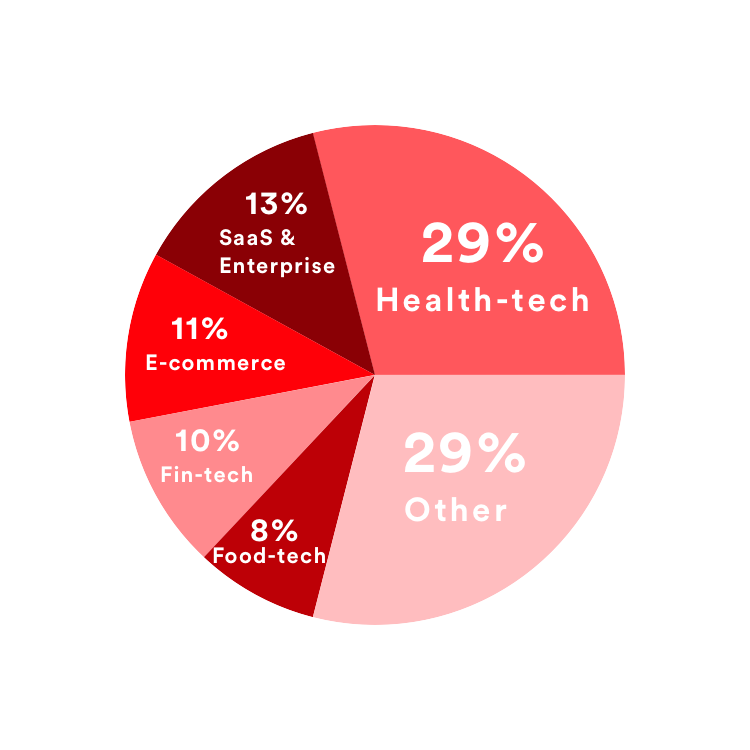
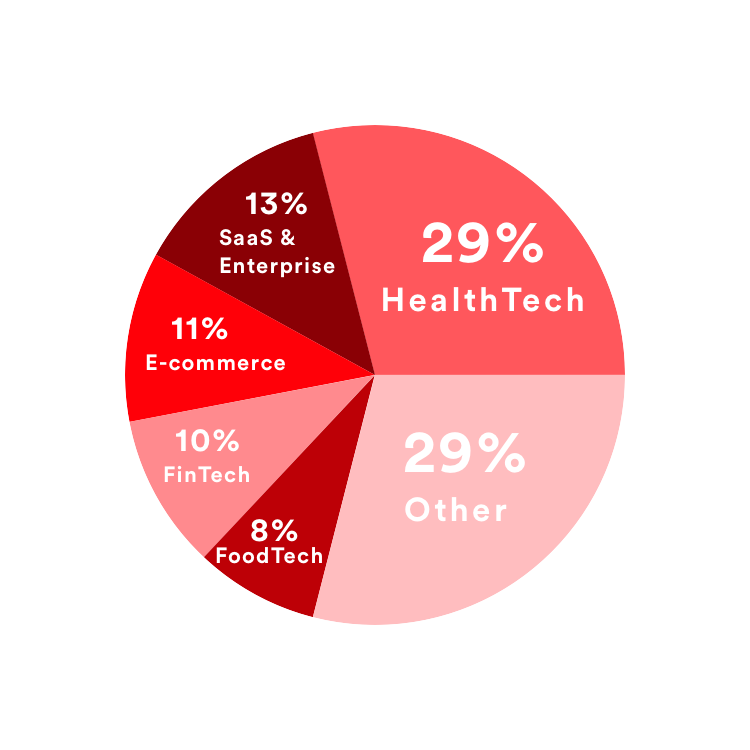
graphics and copy updates

Changed region(s): [[0.4907, 0.368, 0.7973, 0.4293], [0.276, 0.736, 0.4293, 0.7667], [0.2147, 0.6133, 0.3373, 0.644]]

diff --git a/index.html b/index.html
@@ -2,7 +2,7 @@
 <html lang="en">
 <head>
 	<meta charset="UTF-8">
-	<title>Dorm Room Fund 5&#150;Year Report</title>
+	<title>Dorm Room Fund 5&#45;Year Report</title>
 	<link rel="icon" href="Media/DRFMedia/DRFIcon.png">
 	<link rel="stylesheet" href="css/normalize.css">
 	<link rel="stylesheet" href="css/decorate.css">
@@ -47,7 +47,7 @@
 	</div>
 	<div id='title-screen'>
 		<h1 class="HeaderText">Dorm Room Fund</h1>
-		<p class="SubsubheaderText">5&#150;Year Report</p>
+		<p class="SubsubheaderText">5&#45;Year Report</p>
 	</div>
 	<div id='title-background'></div>
 	<div id="arrowdiv">
@@ -61,7 +61,7 @@
 				<img src="Media/Quotes/JoshKopelman.png" alt="Josh Kopelman"/>
 			</div>
 			<div class="quotetext">
-				<p class="BylineText italic"><span class="SubsubheaderText blue quotequote">&#34;</span>Student founders have shaped industries and transformed the world &#150; changing the way we <a href="https://www.facebook.com" id="FB" class="blue" target="_blank">communicate</a>&#44; the way we <a href="http://www.fedex.com" id="FedEx" class="blue" target="_blank">shop</a>&#44; the way <a href="https://www.google.com" id="Google" class="blue" target="_blank">knowledge is shared</a>&#44; and the way we <a href="https://www.microsoft.com/en-us/" id="Microsoft" class="blue" target="_blank">work</a>&#46; Yet the venture industry has largely ignored students when they&#39;re in school &#150; choosing to wait until students graduate before funding companies&#46; Massively impactful companies are being created right now in dorm rooms throughout the nation &#150; and Dorm Room Fund is providing this impressive collection of student founders with access to critical capital and mentorship when it matters the most&#46;<span class="blue">&#34;</span></p>
+				<p class="BylineText italic"><span class="SubsubheaderText blue quotequote">&#34;</span>Student founders have shaped industries and transformed the world&#151;changing the way we <a href="https://www.facebook.com" id="FB" class="blue" target="_blank">communicate</a>&#44; the way we <a href="http://www.fedex.com" id="FedEx" class="blue" target="_blank">shop</a>&#44; the way <a href="https://www.google.com" id="Google" class="blue" target="_blank">knowledge is shared</a>&#44; and the way we <a href="https://www.microsoft.com/en-us/" id="Microsoft" class="blue" target="_blank">work</a>&#46; Yet the venture industry has largely ignored students when they&#39;re in school &#45; choosing to wait until students graduate before funding companies&#46; Massively impactful companies are being created right now in dorm rooms throughout the nation&#151;and Dorm Room Fund is providing this impressive collection of student founders with access to critical capital and mentorship when it matters the most&#46;<span class="blue">&#34;</span></p>
 				<div class="quotetitle">
 					<p class="BylineText Black">Josh Kopelman</p>
 					<p class="BylineText Black">Founder of First Round Capital</p>
@@ -74,15 +74,15 @@
 	<div id="introtext">
 		<p class="Bodycopy">Facebook&#44; Microsoft&#44; Snapchat&#44; Yahoo&#44; and Google all started in a dorm room&#46;</p>
 
-		<p class="Bodycopy">Five years ago&#44; Josh Kopelman wrote a <a href="http://redeye.firstround.com/2012/09/the-dorm-room-fund.html" target="_blank" class="blue">blog post</a> reflecting on that thought and discussed the state of student entrepreneurship&#46; With those reflections&#44; he announced an experiment called &#34;The Dorm Room Fund&#46;&#34;</p>
+		<p class="Bodycopy">Five years ago&#44; Josh Kopelman wrote a <a href="http://redeye.firstround.com/2012/09/the-dorm-room-fund.html" target="_blank" class="blue">blog post</a> that discussed the state of student entrepreneurship&#46; Along with those reflections&#44; he announced an experiment called &#34;The Dorm Room Fund&#46;&#34;</p>
 		 
-		<p class="Bodycopy">What started off as a pilot in Philadelphia is now a national venture firm that has funded over 150 startups&#44; graduated over 100 investors and operators&#44; and launched a global student entrepreneurship movement that has inspired student&#150;focused funds across the world &#150; from Israel to New Zealand&#46;</p> 
+		<p class="Bodycopy">What started off as a pilot in Philadelphia is now a national venture firm that has funded over 150 startups&#44; graduated over 100 investors and operators&#44; and launched a global student entrepreneurship movement that has inspired student&#45;focused funds across the world &#151; from Israel to New Zealand&#46;</p> 
 
 		<p class="Bodycopy">During the last 5 years&#44; we&#39;ve had the opportunity to work with entrepreneurial students all across the country&#46; As a result&#44; we&#39;ve developed a unique vantage point&#44; perspective and knowledge on what students are capable of creating&#46; To celebrate our 5th birthday&#44; we wanted to share these findings with the community at large&#46;</p> 
 
 		<p class="Bodycopy">We compiled our findings into 4 categories&#58;</p>
 
-		<p class="Bodycopy"><span class="underline"><a href="#Portfolio-Highlights" class="yellow">Portfolio Highlights</a></span> &#151; How have DRF&#150;backed companies performed over the last 5 years&#44; and what impact have student&#150;founded startups had&#63;</p>
+		<p class="Bodycopy"><span class="underline"><a href="#Portfolio-Highlights" class="yellow">Portfolio Highlights</a></span> &#151; How have DRF&#45;backed companies performed over the last 5 years&#44; and what impact have student&#45;founded startups had&#63;</p>
 
 		<p class="Bodycopy"><span class="underline"><a href="#Investment-Locations" class="green">Investment Locations</a></span> &#151; What are the most entrepreneurial universities&#63; Does Silicon Valley remain on top in terms of student startup activity&#63;</p>
 
@@ -106,7 +106,7 @@
 	<div class="content-page aligndivs">
 		<div class="bodytext tocenter aligntop">
 			<h2 class="SubheaderText"><span class="yellow HeaderText">151</span> Investments</h2>
-			<p class="Bodycopy">Between our very first investment in Firefly &#40;acquired 2014&#41; and our latest investment earlier this week&#44; we&#39;ve written over 150 checks&#46;</p> 
+			<p class="Bodycopy">Between our very first investment in Firefly &#40;acquired in 2014&#41; and our latest investment earlier this week&#44; we&#39;ve written over 150 checks&#46;</p> 
 
 			<p class="Bodycopy">Over the last 5 years&#44; we’ve been funding the strongest community of student entrepreneurs&#44; consisting of founders across Undergraduate&#44; MBA&#44; Master&#39;s&#44; and PhD programs around the country&#46;</p>
 		</div>
@@ -116,8 +116,8 @@
 	</div>
 	<div class="grayback content-page">
 		<h2 class="SubheaderText"><span class="yellow HeaderText">&#36;300M&#43;</span> in Follow&#8211;On Capital</h2>
-		<p class="Bodycopy">Our portfolio companies have gone on to raise over &#36;300M in funding from investors like Sequoia Capital&#44; Andreessen Horowitz&#44; Y&#150;Combinator&#44; and more&#46;</p>
-		<p class="Bodycopy">We’re starting to see traditional VC&#39;s invest with more confidence and frequency in student&#150;founded startups than ever before&#46;</p>
+		<p class="Bodycopy">Our portfolio companies have gone on to raise over &#36;300M in funding from investors like Sequoia Capital&#44; Andreessen Horowitz&#44; Y&#45;Combinator&#44; and more&#46;</p>
+		<p class="Bodycopy">We’re starting to see traditional VC&#39;s invest with more confidence and frequency in student&#45;founded startups than ever before&#46;</p>
 		<div class="MultiGraphic">
 			<div class="row1">
 				<img src="Media/VCLogos/Bessemer.png" alt="Bessemer"/>
@@ -169,9 +169,9 @@
 	</div>
 	<div class="grayback content-page">
 		<div class="bodytext whole-width">
-			<h2 class="SubheaderText"><span class="yellow HeaderText">11</span> Startups in Y&#150;Combinator in 2017</h2>
-			<p class="Bodycopy">Every year&#44; we’re seeing stronger student representation across top accelerators and fellowships&#46; Given that accelerators aim to accomplish a similar mission as Dorm Room Fund &#151; bridge the gap between your idea and your seed round &#151; it&#39;s no surprise that student founders are taking accelerators by storm&#46;</p>
-			<p class="Bodycopy">In Y&#150;Combinator’s most recent batch&#44; Dorm Room Fund&#39;s 8 startups represented the largest sub&#150;community within YC&#46;</p>
+			<h2 class="SubheaderText"><span class="yellow HeaderText">11</span> Startups in Y&#45;Combinator in 2017</h2>
+			<p class="Bodycopy">Every year&#44; we’re seeing stronger student representation across top accelerators and fellowships&#46; Given that accelerators aim to accomplish a similar mission as Dorm Room Fund&#151;bridge the gap between your idea and your seed round&#151;it&#39;s no surprise that student founders are taking accelerators by storm&#46;</p>
+			<p class="Bodycopy">In Y&#45;Combinator’s most recent batch&#44; Dorm Room Fund&#39;s 8 startups represented the largest sub&#45;community within YC&#46;</p>
 		</div>
 		<div class="MultiGraphic" id="YCLogos">
 			<div class="row1">
@@ -278,7 +278,7 @@
 	<div class="grayback content-page aligndivs">
 		<div class="bodytext tocenter aligntop">
 			<h2 class="SubheaderText"><span class="green HeaderText">43&#37;</span> of Our Investments Went to Undergraduate Founders</h2>
-			<p class="Bodycopy">Young&#44; hungry&#44; and unafraid of failing&#44; undergraduate students seem to be more entrepreneurial than the rest of the university ecosystem&#46; Representing just over 43&#37; of our investments&#44; the group leads the pack in our portfolio amongst MBA&#44; PhD&#44; and Master&#39;s students&#46; MBA candidates are a close second and catching up quickly&#44; representing just over 39&#37; of our investments&#46;</p>
+			<p class="Bodycopy">Young&#44; hungry&#44; and unafraid of failing&#44; undergraduate students seem to be more entrepreneurial than the rest of the university ecosystem&#46; Representing just over 43&#37; of our investments&#44; the group leads the pack in our portfolio amongst MBA&#44; PhD&#44; and Master&#39;s students&#46; MBA candidates are a close second and are catching up quickly&#44; representing just over 39&#37; of our investments&#46;</p>
 		</div>
 		<div class="SingleGraphic">
 			<img src="Media/Graphics/InvestmentGradeBreakdown.png" alt="Investment Grade Breakdown"/>
@@ -287,7 +287,7 @@
 	<div class="content-page">
 		<div class="bodytext whole-width">
 			<h2 class="SubheaderText"><span class="green HeaderText">Boston</span> is the Hub of the Nation&#39;s Student Entrepreneurship Ecosystem</h2>
-			<p class="Bodycopy">With 31&#37; of our investments coming from the Boston region&#44; we’ve seen Boston trump Silicon Valley in the world of student entrepreneurship&#46; With the cutting&#150;edge research at MIT&#44; the 200&#43; active startups at Northeastern&#44; and the entrepreneurial spirit of Harvard Business School students&#44; it&#39;s no shock that Boston takes the lead here&#46;</p>
+			<p class="Bodycopy">With 31&#37; of our investments coming from the Boston region&#44; we’ve seen Boston trump Silicon Valley in the world of student entrepreneurship&#46; With the cutting&#45;edge research at MIT&#44; the 200&#43; active startups at Northeastern&#44; and the entrepreneurial spirit of Harvard Business School students&#44; it&#39;s no shock that Boston takes the lead here&#46;</p>
 			<p class="Bodycopy">In 2018&#44; we&#39;re looking to launch in a new city&#46; Think your student startup ecosystem is a great fit for Dorm Room Fund&#63; <a href="https://dormroomfund.typeform.com/to/e3FYHB" target="_blank" class="blue">Let us know here</a>&#46;</p>
 		</div>
 		<div class="SingleGraphic centered">
@@ -297,8 +297,8 @@
 	<div class="grayback content-page aligndivs">
 		<div class="bodytext tocenter aligntop">
 			<h2 class="SubheaderText"><span class="green HeaderText">MIT vs&#46; Penn:</span> Technology Disruptions vs&#46; Industry Disruptions</h2>
-			<p class="Bodycopy">With Penn&#42; and MIT taking the lead in our portfolio&#44; it&#39;s interesting to see the contrast between founders at both schools&#46; With the research&#150;focus of MIT and the Wharton community at Penn&#44; we&#39;ve noticed the difference in the problems being solved at both schools&#46;</p> 
-			<p class="Bodycopy">With more technically&#150;challenging products being built at MIT &#40;many Hardware &#38; AI investments&#41;&#44; and more of an industry&#150;disruption focus at Penn &#40;many Healthcare&#44; e&#150;commerce&#44; and Enterprise investments&#41;&#44; each school has flourished with its own unique strengths&#46;</p>
+			<p class="Bodycopy">With Penn&#42; and MIT taking the lead in our portfolio&#44; it&#39;s interesting to see the contrast between founders at both schools&#46; With the research focus of MIT and the Wharton community at Penn&#44; we&#39;ve noticed the difference in the problems being solved at both schools&#46;</p> 
+			<p class="Bodycopy">With more technically&#45;challenging products being built at MIT &#40;many hardware &#38; AI investments&#41; and more of an industry&#45;disruption focus at Penn &#40;many healthcare&#44; e&#45;commerce&#44; and enterprise investments&#41;&#44; each school has flourished with its own unique strengths&#46;</p>
 			<p class="BylineText italic">&#42;While Penn is our most funded school&#44; it was also the first school we began actively investing in&#46;</p>
 		</div>
 		<div class="SingleGraphic">
@@ -319,7 +319,7 @@
 	<div class="content-page aligndivs">
 		<div class="bodytext tocenter aligntop">
 			<h2 class="SubheaderText"><span class="red HeaderText">Healthcare Needs Work&#44;</span> According to Today&#39;s Young Founders</h2>
-			<p class="Bodycopy">With 21 investments in healthcare &#38; wellness startups&#44; students around the country are looking to improve the lives of future generations&#46; Building off of that notion&#44; we&#39;ve found that food&#150;tech and clean&#150;tech make up 10&#37; of our investments as well&#46;</p>
+			<p class="Bodycopy">With 21 investments in healthcare &#38; wellness startups&#44; students around the country are looking to improve the lives of future generations&#46; Building off of that notion&#44; we&#39;ve found that FoodTech and CleanTech make up 10&#37; of our investments as well&#46;</p>
 			<p class="Bodycopy">From improving transparency and efficiency to employer healthcare offerings &#40;HealthWiz&#41; to bringing professional nutrition advice to all &#40;Healthie&#41;&#44; tomorrow&#39;s entrepreneurs are making selfless bets on our future&#46;</p>
 		</div>
 		<div class="SingleGraphic">
@@ -329,7 +329,7 @@
 	<div class="grayback content-page aligndivs">
 		<div class="bodytext tocenter aligntop">
 			<h2 class="SubheaderText"><span class="red HeaderText">SaaS &#38; Enterprise</span> Trump Health for Undergrad Investments</h2>
-			<p class="Bodycopy">Although health&#150;tech is the leading sector in our portfolio&#44; it&#39;s not the most common industry within our undergraduate investments&#46; SaaS &#38; Enterprise take the lead here&#44; with fin&#150;tech taking the &#35;2 spot&#46;</p>
+			<p class="Bodycopy">Although HealthTech is the leading sector in our portfolio&#44; it&#39;s not the most common industry within our undergraduate investments&#46; SaaS &#38; Enterprise take the lead here&#44; with FinTech taking the &#35;2 spot&#46;</p>
 			<p class="Bodycopy">It&#39;s interesting to see younger founders take the more enterprise and B2B route&#44; whereas MBA&#39;s would typically be associated with these sectors&#46;</p>
 		</div>
 		<div class="SingleGraphic">
@@ -338,8 +338,8 @@
 	</div>
 	<div class="content-page aligndivs">
 		<div class="bodytext tocenter aligntop">
-			<h2 class="SubheaderText"><span class="red HeaderText">Health&#150;tech</span> Remains the Leader Amongst Graduate Investments</h2>
-			<p class="Bodycopy">The bulk of our health&#150;tech investments come from MBA&#150;founded startups&#44; who have built more startups in health and food&#150;tech than e&#150;commerce&#44; fin&#150;tech&#44; and SaaS&#47;enterprise combined&#46;</p>
+			<h2 class="SubheaderText"><span class="red HeaderText">HealthTech</span> Remains the Leader Amongst Graduate Investments</h2>
+			<p class="Bodycopy">The bulk of our HealthTech investments come from MBA&#45;founded startups&#44; who have built more startups in HealthTech and FoodTech than E&#45;commerce&#44; FinTech&#44; and SaaS&#47;Enterprise combined&#46;</p>
 		</div>
 		<div class="SingleGraphic">
 			<img src="Media/Graphics/GradInvestments.png" alt="Graph of Industries for Graduates"/>
@@ -350,7 +350,7 @@
 			<h2 class="SubheaderText"><span class="red HeaderText">69&#37;</span> of Founding Teams Consist of Two or More People</h2>
 			<p class="Bodycopy">1 &#43; 1 &#61; 11&#46;</p>
 			<p class="Bodycopy">Building a company is hard&#46; Building a company <em>alone</em> is harder&#46;</p>
-			<p class="Bodycopy">With just 31&#37; of our companies launched by a solo founder&#44; university ecosystems are breeding grounds for finding the perfect co&#150;founder&#40;s&#41;&#46;</p>
+			<p class="Bodycopy">With just 31&#37; of our companies launched by a solo founder&#44; university ecosystems are breeding grounds for finding the perfect co&#45;founder&#40;s&#41;&#46;</p>
 		</div>
 		<div class="SingleGraphic">
 			<img src="Media/Graphics/TeamSizeGraph.png" alt="Team Size Graph"/>
@@ -408,7 +408,7 @@
 	<div class="grayback content-page aligndivs">
 		<div class="bodytext tocenter aligntop">
 			<h2 class="SubheaderText"><span class="blue HeaderText">9.81&#37;</span> of Companies Are Funded</h2>
-			<p class="Bodycopy">With hundreds of applications for funding every year&#44; our acceptance rate hovers just under 10&#37;&#46; companies go through several different stages of the funding process &#151; beginning with a coffee chat and ending with an on&#8211;site pitch &#151; and we narrow down companies at each stage&#46;</p>
+			<p class="Bodycopy">With hundreds of applications for funding every year&#44; our acceptance rate hovers just under 10&#37;&#46; companies go through several different stages of the funding process&#151;beginning with a coffee chat and ending with an on&#8211;site pitch&#151;and we narrow down companies at each stage&#46;</p>
 		</div>
 		<div class="SingleGraphic">
 			<img src="Media/Graphics/10Companies.png" alt="10 Companies Visual"/>
@@ -447,7 +447,7 @@
 	<div class="grayback content-page">
 		<div class="bodytext whole-width center">
 			<h2 class="SubheaderText"><span class="blue HeaderText">47&#46;3&#37;</span> of DRF Alumni Have Gone on to Become Founders or VC&#39;s</h2>
-			<p class="Bodycopy">Through DRF&#39;s best&#150;in&#150;class education&#44; experiences&#44; and community&#44; our partners have gone on to start their own startups&#44; launch venture funds&#44; and land careers at Sequoia Capital&#44; KPCB&#44; the White House&#44; Google&#44; and more&#46;</p>
+			<p class="Bodycopy">Through DRF&#39;s best&#45;in&#45;class education&#44; experiences&#44; and community&#44; our partners have gone on to start their own startups&#44; launch venture funds&#44; and land careers at Sequoia Capital&#44; KPCB&#44; the White House&#44; Google&#44; and more&#46;</p>
 		</div>
 		<div class="SingleGraphic centered">
 			<img src="Media/Graphics/PostDRFGraph.png" alt="Post-DRF Graph Visual"/>
@@ -457,7 +457,7 @@
 		<div class="bodytext tocenter aligntop">
 			<h2 class="SubheaderText"><span class="blue HeaderText">25</span> Forbes 30 Under 30 Honorees In 2 Years</h2>
 			<p class="Bodycopy">Our portfolio founders and former partners have been taking the Forbes 30U30 community by storm&#44; with 25 inductees across the Class of 2016 and 2017&#46;</p>
-			<p class="Bodycopy">From Forbes to Y&#150;Combinator to Thiel Fellows&#44; DRF members have been thriving in other entrepreneurial circles around the nation&#46;</p>
+			<p class="Bodycopy">From Forbes to Y&#45;Combinator to Thiel Fellows&#44; DRF members have been thriving in other entrepreneurial circles around the nation&#46;</p>
 		</div>
 		<div class="SingleGraphic">
 			<img src="Media/Graphics/Forbes30U30.png" alt="Forbes 30U30 Visual"/>
@@ -466,7 +466,7 @@
 	<div class="grayback content-page">
 		<div class="bodytext whole-width centeredtext">
 			<h2 class="SubheaderText"><span class="blue HeaderText">The First 5 Years of a Global Student Entrepreneurship Movement</span></h2>
-			<p class="Bodycopy">From Israel to New Zealand&#44; Dorm Room Fund&#39;s student&#150;venture model has inspired funds across the world&#46; From early friends like Rough Draft Ventures to new funds like Front Row Ventures&#44; the world of student entrepreneurship is seeing more capital&#44; confidence&#44; and support than ever before&#46;</p>
+			<p class="Bodycopy">From Israel to New Zealand&#44; Dorm Room Fund&#39;s student&#45;venture model has inspired funds across the world&#46; From early friends like Rough Draft Ventures to new funds like Front Row Ventures&#44; the world of student entrepreneurship is seeing more capital&#44; confidence&#44; and support than ever before&#46;</p>
 		</div>
 		<div class="SingleGraphic centered">
 			<img src="Media/Graphics/StudentVCWeb.png" alt="Student VC Web"/>
@@ -483,7 +483,7 @@
 				<img src="Media/Quotes/SarahTavel.png" alt="Sarah Tavel"/>
 			</div>
 			<div class="quotetext">
-				<p class="BylineText italic"><span class="SubsubheaderText blue quotequote">&#34;</span>It&#39;s called youthful exuberance for a reason&#46; There&#39;s something about the energy student founders have that lets them unlock opportunities that more grizzled veterans overlook&#46; Dorm Room Fund steps in by helping direct and focus this energy&#44; turning ideas into venture&#150;fundable startups&#46; I can&#39;t wait to see what comes out of Dorm Room Fund next&#46;</span></p>
+				<p class="BylineText italic"><span class="SubsubheaderText blue quotequote">&#34;</span>It&#39;s called youthful exuberance for a reason&#46; There&#39;s something about the energy student founders have that lets them unlock opportunities that more grizzled veterans overlook&#46; Dorm Room Fund steps in by helping direct and focus this energy&#44; turning ideas into venture&#45;fundable startups&#46; I can&#39;t wait to see what comes out of Dorm Room Fund next&#46;</span></p>
 				<div class="quotetitle">
 					<p class="BylineText Black">Sarah Tavel</p>
 					<p class="BylineText Black">Partner at Benchmark Capital</p>
@@ -507,7 +507,7 @@
 				<img src="Media/Quotes/RebeccaKaden.png" alt="Rebecca Kaden"/>
 			</div>
 			<div class="quotetext">
-				<p class="BylineText italic"><span class="SubsubheaderText blue quotequote">&#34;</span>College and university campuses have long been hot beds of new ideas&#44; passionate dreamers and creators&#44; and varied perspectives allowing for rich debate and deeper understanding&#150;that&#39;s made them critical in times of political and social change across generations&#44; and also the birthing place of some of the most important companies of our time&#46; Student entrepreneurship is something we love and care about at Maveron&#150;because creating the next generation of breakout brands &#40;what we think about&#41; is going to require wild new ideas&#44; passion that the previously non existent is possible&#44; and teams of diverse people with different perspectives working together to make it happen&#46; Many of our countries&#39; campuses have that in spades&#44; and often the missing ingredient is people who have seen successful companies&#39; trajectories before to help spur it on&#46; We love to play that role&#46;<span class="blue">&#34;</span></p>
+				<p class="BylineText italic"><span class="SubsubheaderText blue quotequote">&#34;</span>College and university campuses have long been hot beds of new ideas&#44; passionate dreamers and creators&#44; and varied perspectives allowing for rich debate and deeper understanding&#45;that&#39;s made them critical in times of political and social change across generations&#44; and also the birthing place of some of the most important companies of our time&#46; Student entrepreneurship is something we love and care about at Maveron&#45;because creating the next generation of breakout brands &#40;what we think about&#41; is going to require wild new ideas&#44; passion that the previously non existent is possible&#44; and teams of diverse people with different perspectives working together to make it happen&#46; Many of our countries&#39; campuses have that in spades&#44; and often the missing ingredient is people who have seen successful companies&#39; trajectories before to help spur it on&#46; We love to play that role&#46;<span class="blue">&#34;</span></p>
 				<div class="quotetitle ">
 					<p class="BylineText Black">Rebecca Kaden</p>
 					<p class="BylineText Black">Partner at Maveron</p>
@@ -531,7 +531,7 @@
 				<img src="Media/Quotes/AdamGoldberg.png" alt="Adam Goldberg"/>
 			</div>
 			<div class="quotetext">
-				<p class="BylineText italic"><span class="SubsubheaderText blue quotequote">&#34;</span>College is a special time to build a company surrounded by high&#150;energy peers and mentors&#46; Dorm rooms are the new garages &#151; just look at Facebook&#44; Snap&#44; and Google&#33;<span class="blue">&#34;</span></p>
+				<p class="BylineText italic"><span class="SubsubheaderText blue quotequote">&#34;</span>College is a special time to build a company surrounded by high&#45;energy peers and mentors&#46; Dorm rooms are the new garages &#151; just look at Facebook&#44; Snap&#44; and Google&#33;<span class="blue">&#34;</span></p>
 				<div class="quotetitle">
 					<p class="BylineText Black">Adam Goldberg</p>
 					<p class="BylineText Black">Partner at Lightspeed Venture Partners</p>
@@ -574,7 +574,7 @@
 		<h2 class="SubsubheaderText">Made with Love by&#58;</h2>
 		<p class="Bodycopy"><span class="Black">Leads&#58;</span> Haris Memon &#38; Maneet Khaira</p>
 		<p class="Bodycopy"><span class="Black">Design &#38; Development&#58;</span> Albert Dong</p>
-		<p class="Bodycopy">Special thanks to Monica Shi&#44; Yasyf Mohamdali&#44; &#38; Cat Xu</p>
+		<p class="Bodycopy">Special thanks to Monica Shi&#44; Yasyf Mohamedali&#44; &#38; Cat Xu</p>
 
 		<p class="Bodycopy">and of course&#133;</p>
 
